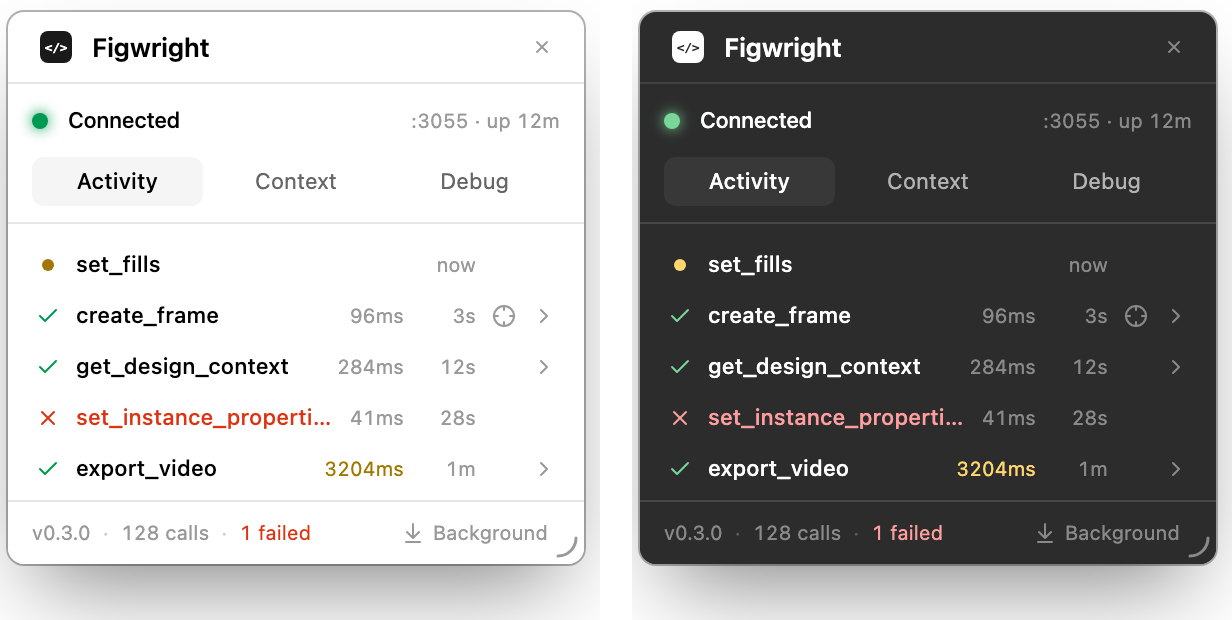
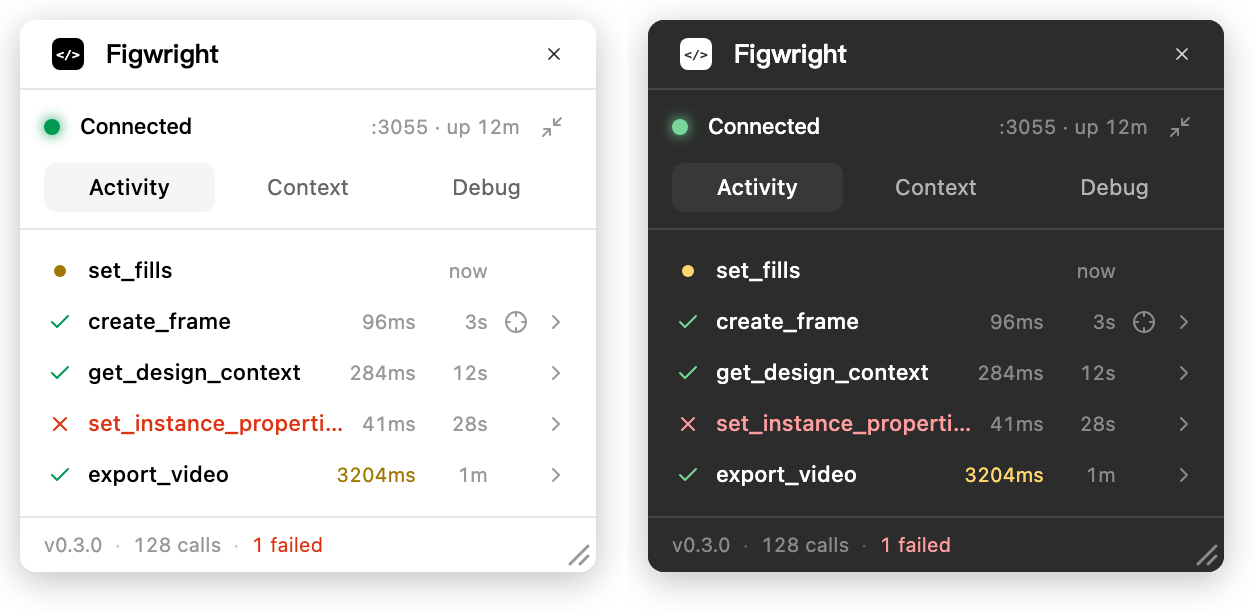
fix(plugin): rework the panel's window controls — resize grip and run-in-background (#105)
* fix(plugin): draw the resize grip as the diagonal stair every platform uses

The corner drew a single arc, concentric with the window's own rounding. That
reads as decoration rather than as a resize affordance, and its tangent runs
perpendicular to the drag axis the cursor promises.

Replace it with the two-chord diagonal stair that a textarea's native grippy and
every OS window corner have trained people on, and hold it clear of Figma's
corner: the window is not an 8px radius but a squircle reaching 11px along each
edge, so the visible boundary crosses the diagonal at (12.25, 12.25) in the
glyph's 16px box. A chord whose midpoint sits past that loses half its width and
effectively disappears — which is what happened to the short one until the
endpoints were pulled in to a 4px inset.

The 3.5px gap is load-bearing too: at 1.5px wide and 2.5px apart the two strokes'
anti-aliasing fills the space between them on a 1x display and they read as one
solid wedge.

* refactor(plugin): move run-in-background to the window controls

Hiding the panel while the relay stays connected is a window control — the near
cousin of Figma's own close button, which disconnects. It lived in the footer, a
read-only status row, where it also had to share the bottom-right corner with the
resize grip: the button's tail sat under the grip's 16px hit area, so clicking
there started a resize drag instead of pressing the button.
[…]

diff --git a/packages/plugin/ui/components/PanelGrip.vue b/packages/plugin/ui/components/PanelGrip.vue
@@ -5,17 +5,27 @@ const { onResizeStart, onResizeMove, onResizeEnd } = usePanelWindow();
 </script>
 
 <!--
-  Figma gives plugin windows no resize affordance, so the panel draws its own: a single stroke
-  tucked into the corner.
+  Figma gives plugin windows no resize affordance, so the panel draws its own: the diagonal stair
+  every platform uses for a resize corner (a textarea's native grippy, an OS window corner).
 
-  It curves the same way the window's corner does — concentric with it — so the mark belongs to a
-  rounded window instead of fighting it. (Curving *around* the corner instead would read as
-  radiating waves, which is the empty state's language, not this one's.)
+  Leaning on that convention is the whole point — the mark has to be recognised as "drag me" at a
+  glance, at 16px, in a tertiary colour. The two chords also run along the drag axis itself, so the
+  glyph points the same way `cursor-nwse-resize` does.
 
-  Everything is held clear of the corner itself. Figma rounds the plugin window and doesn't expose
-  the radius; past roughly (12,12) in this 16px box the pixels fall outside the window at a 13px
-  radius and the glyph would render clipped. This geometry stays inside for any radius Figma is
-  plausibly using.
+  Two strokes of clearly different length (12.7 and 5.7), 3.5px apart. Both numbers are
+  load-bearing, and both were got wrong first:
+
+  - The corner clips more than it looks like it does. Figma's window corner is not an 8px radius but
+    a squircle reaching 11px along each edge; measured off a real screenshot, the visible boundary
+    crosses the diagonal at (12.25, 12.25) in this box. A chord whose midpoint sits past that is cut
+    in half and effectively disappears — which is what happened to the short one at a 1.75px inset.
+  - The gap has to survive a 1x display. At 1.5px wide and 2.5px apart the two strokes'
+    anti-aliasing fills the space between them and they read as one solid wedge.
+
+  So: endpoints inset 4px, chords at x+y=15 and x+y=20. 2px was tried and is too far out — the
+  short chord goes back to looking swallowed by the corner there, even though the arithmetic says
+  only a quarter of its width is lost. Screenshots at device scale 2 hide that entirely; check this
+  in the real window, not in a render.
 -->
 <template>
   <div
@@ -35,7 +45,9 @@ const { onResizeStart, onResizeMove, onResizeEnd } = usePanelWindow();
       stroke-width="1.5"
       stroke-linecap="round"
     >
-      <path d="M12 3A9 9 0 0 1 3 12" />
+      <!-- long chord, then the short one nearer the corner -->
+      <path d="M12 3 L3 12" />
+      <path d="M12 8 L8 12" />
     </svg>
   </div>
 </template>

diff --git a/packages/plugin/ui/components/PanelBackgroundButton.vue b/packages/plugin/ui/components/PanelBackgroundButton.vue
@@ -1,0 +1,39 @@
+<script setup lang="ts">
+import { Minimize2 } from '@lucide/vue';
+
+import { usePanelWindow } from '../composables/usePanelWindow.js';
+
+const { runInBackground } = usePanelWindow();
+</script>
+
+<!--
+  Running in the background hides the panel and keeps the relay connected — it is a window control,
+  the near cousin of Figma's own ✕ (which disconnects). So it lives where window controls live: the
+  top-right, below Figma's title bar rather than in the footer's read-only status row. That also
+  hands the bottom-right corner back to <PanelGrip>, which every resizable window reserves for its
+  resize handle.
+
+  Icon-only out of necessity: at the 280px minimum panel width, a labelled button plus the status
+  text plus ":3055 · up 15m" doesn't fit, so the tooltip has to carry the "stays connected" part.
+
+  `minimize-2`, the standard collapse-inward glyph, because sitting directly under Figma's ✕ it
+  reads as the other half of a window-control pair and says "put this window away" rather than
+  "collapse this section" (a bare minus) or "download" (a down arrow). Its diagonals were a worry —
+  <PanelGrip> is also diagonal — but they point inward from two corners where the grip is a pair of
+  parallel strokes, and the two sit at opposite ends of the panel; checked in Figma, they don't read
+  as the same thing. Don't swap in `eye-off` or `panel-bottom-close`: at 12px their paths mush.
+
+  Sizes are set against the status row rather than in the abstract — 12px matches the visual height
+  of the 11px label beside it, and the negative margin lets the hit target exceed the text without
+  growing the header.
+-->
+<template>
+  <button
+    class="-my-1 shrink-0 rounded p-1 text-faint transition-colors duration-150 hover:bg-hover hover:text-fg"
+    title="Run in background — hides the panel; the relay stays connected. Reopen by running the plugin again."
+    aria-label="Run in background"
+    @click="runInBackground"
+  >
+    <Minimize2 class="size-3" />
+  </button>
+</template>

diff --git a/packages/plugin/test/components/panel-footer.test.ts b/packages/plugin/test/components/panel-footer.test.ts
@@ -1,19 +1,8 @@
 // @vitest-environment happy-dom
 import { mount } from '@vue/test-utils';
-import { beforeEach, describe, expect, it, vi } from 'vitest';
+import { describe, expect, it } from 'vitest';
 
-// Minimising is the panel-window module's job; the footer only has to ask for it.
-const runInBackground = vi.hoisted(() => vi.fn<() => void>());
-vi.mock('../../ui/composables/usePanelWindow.js', () => ({
-  usePanelWindow: () => ({
-    runInBackground,
-    onResizeStart: vi.fn<() => void>(),
-    onResizeMove: vi.fn<() => void>(),
-    onResizeEnd: vi.fn<() => void>(),
-  }),
-}));
-
-const { default: PanelFooter } = await import('../../ui/components/PanelFooter.vue');
+import PanelFooter from '../../ui/components/PanelFooter.vue';
 
 const mountFooter = (over: { totalCalls?: number; failedCalls?: number } = {}) =>
   mount(PanelFooter, {
@@ -21,10 +10,6 @@ const mountFooter = (over: { totalCalls?: number; failedCalls?: number } = {}) =
   });
 
 describe('PanelFooter', () => {
-  beforeEach(() => {
-    runInBackground.mockClear();
-  });
-
   it('shows the product version and how many calls have run', () => {
     const wrapper = mountFooter({ totalCalls: 24 });
 
@@ -45,9 +30,9 @@ describe('PanelFooter', () => {
     expect(wrapper.find('.text-danger').exists()).toBe(true);
   });
 
-  it('asks the sandbox to hide the panel', async () => {
-    await mountFooter().find('button').trigger('click');
-
-    expect(runInBackground).toHaveBeenCalled();
+  // The run-in-background control moved to the header, next to Figma's own window controls; the
+  // footer is a read-only status row again.
+  it('holds no controls', () => {
+    expect(mountFooter().find('button').exists()).toBe(false);
   });
 });

diff --git a/packages/plugin/test/components/panel-background-button.test.ts b/packages/plugin/test/components/panel-background-button.test.ts
@@ -1,0 +1,39 @@
+// @vitest-environment happy-dom
+import { mount } from '@vue/test-utils';
+import { beforeEach, describe, expect, it, vi } from 'vitest';
+
+// Hiding the panel is the panel-window module's job; the button only has to ask for it.
+const runInBackground = vi.hoisted(() => vi.fn<() => void>());
+vi.mock('../../ui/composables/usePanelWindow.js', () => ({
+  usePanelWindow: () => ({
+    runInBackground,
+    onResizeStart: vi.fn<() => void>(),
+    onResizeMove: vi.fn<() => void>(),
+    onResizeEnd: vi.fn<() => void>(),
+  }),
+}));
+
+const { default: PanelBackgroundButton } =
+  await import('../../ui/components/PanelBackgroundButton.vue');
+
+describe('PanelBackgroundButton', () => {
+  beforeEach(() => {
+    runInBackground.mockClear();
+  });
+
+  it('asks the sandbox to hide the panel', async () => {
+    await mount(PanelBackgroundButton).find('button').trigger('click');
+
+    expect(runInBackground).toHaveBeenCalled();
+  });
+
+  // The label is dropped to fit the header row, so the accessible name and the tooltip are the only
+  // things left explaining what this does — and the tooltip is where "stays connected" lives.
+  it('stays explainable without a visible label', () => {
+    const button = mount(PanelBackgroundButton).find('button');
+
+    expect(button.text()).toBe('');
+    expect(button.attributes('aria-label')).toBe('Run in background');
+    expect(button.attributes('title')).toContain('relay stays connected');
+  });
+});

diff --git a/packages/plugin/ui/components/PanelFooter.vue b/packages/plugin/ui/components/PanelFooter.vue
@@ -1,11 +1,5 @@
 <script setup lang="ts">
-import { ArrowDownToLine } from '@lucide/vue';
-
-import { usePanelWindow } from '../composables/usePanelWindow.js';
-
 defineProps<{ version: string; totalCalls: number; failedCalls: number }>();
-
-const { runInBackground } = usePanelWindow();
 </script>
 
 <template>
@@ -23,13 +17,5 @@ const { runInBackground } = usePanelWindow();
       <span aria-hidden="true" class="opacity-50">·</span>
       <span class="shrink-0 tabular-nums text-danger">{{ failedCalls }} failed</span>
     </template>
-    <button
-      class="ml-auto flex shrink-0 items-center gap-1 rounded px-1.5 py-0.5 transition-colors duration-150 hover:bg-hover hover:text-fg"
-      title="Run in background — hides the panel; the relay stays connected. Reopen by running the plugin again."
-      @click="runInBackground"
-    >
-      <ArrowDownToLine class="size-3" />
-      Background
-    </button>
   </footer>
 </template>

diff --git a/packages/plugin/ui/App.vue b/packages/plugin/ui/App.vue
@@ -1,6 +1,7 @@
 <script setup lang="ts">
 import { ref } from 'vue';
 
+import PanelBackgroundButton from './components/PanelBackgroundButton.vue';
 import PanelFooter from './components/PanelFooter.vue';
 import PanelGrip from './components/PanelGrip.vue';
 import PanelStatus from './components/PanelStatus.vue';
@@ -30,7 +31,15 @@ const tab = ref<Tab>('activity');
     </span>
 
     <header class="relative shrink-0 border-b border-line px-3 pt-2.5 pb-2">
-      <PanelStatus :status="state.status" :port="state.port" :connected-at="state.connectedAt" />
+      <div class="flex items-center gap-1.5">
+        <PanelStatus
+          class="min-w-0 flex-1"
+          :status="state.status"
+          :port="state.port"
+          :connected-at="state.connectedAt"
+        />
+        <PanelBackgroundButton />
+      </div>
       <PanelTabs v-model="tab" class="mt-2.5" />
     </header>
 

diff --git a/README.md b/README.md
@@ -104,6 +104,16 @@ And it follows your Figma theme, light or dark.
   <img alt="The same panel side by side in Figma's light and dark themes" src="https://raw.githubusercontent.com/awdr74100/figwright/HEAD/.github/plugin-theme.png" width="616">
 </p>
 
+The window is yours to arrange. Drag the bottom-right corner to resize it — a taller panel keeps more of the log in view, and the size is remembered next time you open it. Or send it to the background: the panel gets out of your way while the connection stays live, so a long-running agent keeps working.
+
+<p align="center">
+  <img alt="The same panel at two sizes: a narrow one showing three calls with its resize corner highlighted, and a wider one showing five, with the run-in-background button highlighted in the header" src="https://raw.githubusercontent.com/awdr74100/figwright/HEAD/.github/plugin-window.png" width="602">
+</p>
+
+<p align="center">
+  <sub><b>Resize</b> — drag the corner, the size sticks · <b>Background</b> — the panel hides, the relay stays connected</sub>
+</p>
+
 ## Quick start
 
 ### 1. Add the server to your MCP client
